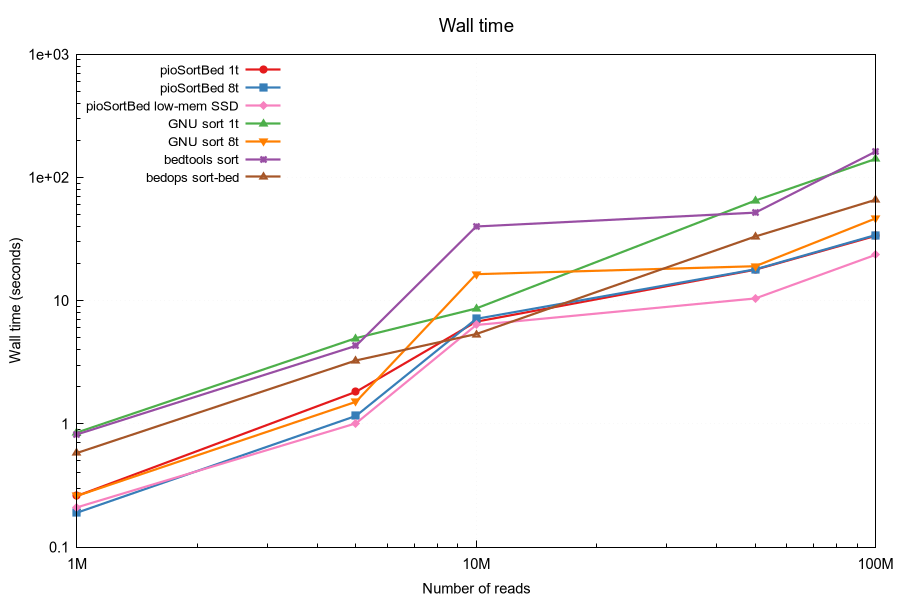
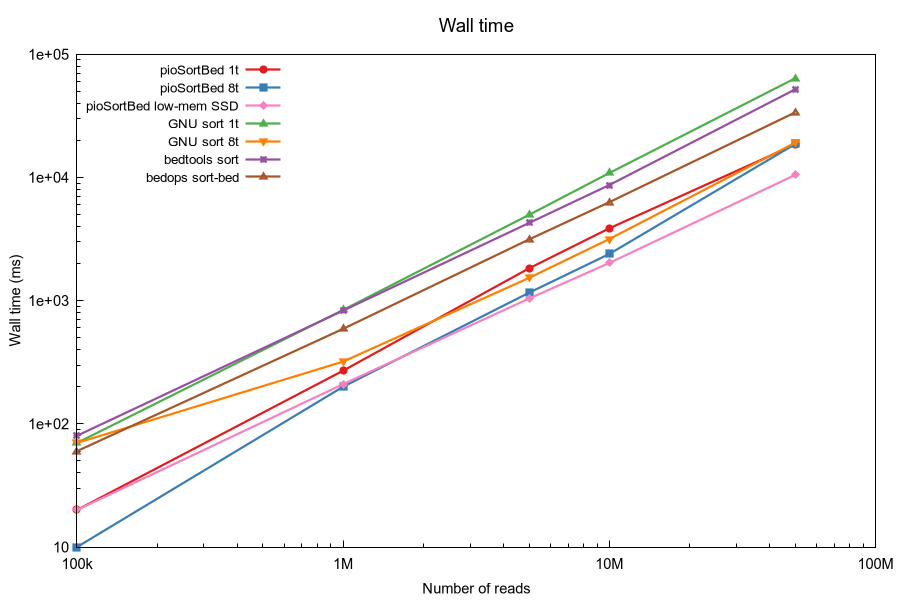
release: v2.0.1 update benchmarks and plots to latest values

diff --git a/README.md b/README.md
@@ -103,10 +103,11 @@ Wall time and peak RSS (resident set size) measured with GNU time. Times in seco
 
 | Reads | pio 1t ● | pio 8t ■ | pio low-mem ◆ | sort 1t ▲ | sort 8t ▼ | bedtools ✚ | bedops ✦ |
 |------:|----------|----------|---------------|-----------|-----------|------------|-----------|
-| 1M    | 260 ms   | **190 ms**| 210 ms       | 850 ms    | **260 ms**| 820 ms     | 580 ms    |
-| 5M    | 1.82 s   | 1.16 s   | **1.01 s**    | 4.96 s    | 1.51 s    | 4.30 s     | 3.27 s    |
-| 50M   | 17.82 s  | 17.94 s  | **10.41 s**   | 64.8 s    | 19.01 s   | 51.74 s    | 33.12 s   |
-| 100M  | 33.52 s  | 34.03 s  | **23.52 s**   | 141.1 s   | 46.43 s   | 161.7 s    | 65.8 s    |
+| 100k  | 20 ms    | 10 ms    | 20 ms         | 70 ms     | 70 ms     | 80 ms      | 60 ms     |
+| 1M    | 270 ms   | 200 ms   | 210 ms        | 840 ms    | 320 ms    | 830 ms     | 590 ms    |
+| 5M    | 1830 ms  | 1160 ms  | 1040 ms       | 4970 ms   | 1530 ms   | 4270 ms    | 3140 ms   |
+| 10M   | 3860 ms  | 2390 ms  | 2020 ms       | 10.85 s   | 3160 ms   | 8670 ms    | 6290 ms   |
+| 50M   | 18.53 s  | 18.67 s  | 10.48 s       | 1min03.8s | 19.12 s   | 51.86 s    | 33.73 s   |
 
 **Key observations:**
 - **pioSortBed 1t** dominates at moderate sizes (100k–10M reads)
@@ -121,11 +122,11 @@ Wall time and peak RSS (resident set size) measured with GNU time. Times in seco
 
 | Reads | pio 1t ● | pio 8t ■ | pio low-mem ◆ | sort 1t ▲ | sort 8t ▼ | bedtools ✚ | bedops ✦ |
 |------:|----------|----------|---------------|-----------|-----------|------------|-----------|
-| 1M    | 71.1 MB  | 73.4 MB  | 64.8 MB       | 88.4 MB   | 164.6 MB  | 409.6 MB   | **54.8 MB**|
-| 5M    | 337.9 MB | 355.8 MB | 318.1 MB      | 432.6 MB  | 814.1 MB  | 2.0 GB     | **268.3 MB**|
-| 10M   | 674.4 MB | 711.0 MB | 633.9 MB      | 863.6 MB  | 1.6 GB    | 3.9 GB     | **535.3 MB**|
-| 50M   | 4.1 GB   | 4.1 GB   | 3.1 GB        | 4.2 GB    | 8.0 GB    | 19.4 GB    | **2.6 GB**|
-| 100M  | 7.2 GB   | 7.2 GB   | 6.2 GB        | 8.5 GB    | 14.8 GB   | 24.5 GB    | **5.2 GB**|
+| 100k  | 10.3 MB  | 10.4 MB  | 9.1 MB        | 11.6 MB   | 12.1 MB   | 48.1 MB    | 8.4 MB    |
+| 1M    | 71.2 MB  | 73.7 MB  | 65.1 MB       | 88.2 MB   | 164.7 MB  | 412.4 MB   | 54.7 MB   |
+| 5M    | 337.8 MB | 355.6 MB | 318.8 MB      | 432.6 MB  | 814.2 MB  | 2.0 GB     | 268.3 MB  |
+| 10M   | 674.3 MB | 710.9 MB | 632.8 MB      | 863.6 MB  | 1.6 GB    | 3.9 GB     | 535.4 MB  |
+| 50M   | 4.1 GB   | 4.1 GB   | 3.1 GB        | 4.2 GB    | 8.0 GB    | 19.4 GB    | 2.6 GB    |
 
 **Key observations:**
 - **pioSortBed low-mem mode** reduces peak RAM on large files (50M: **3.1 GB vs 4.1 GB**; 100M: **6.2 GB vs 7.2 GB**)
